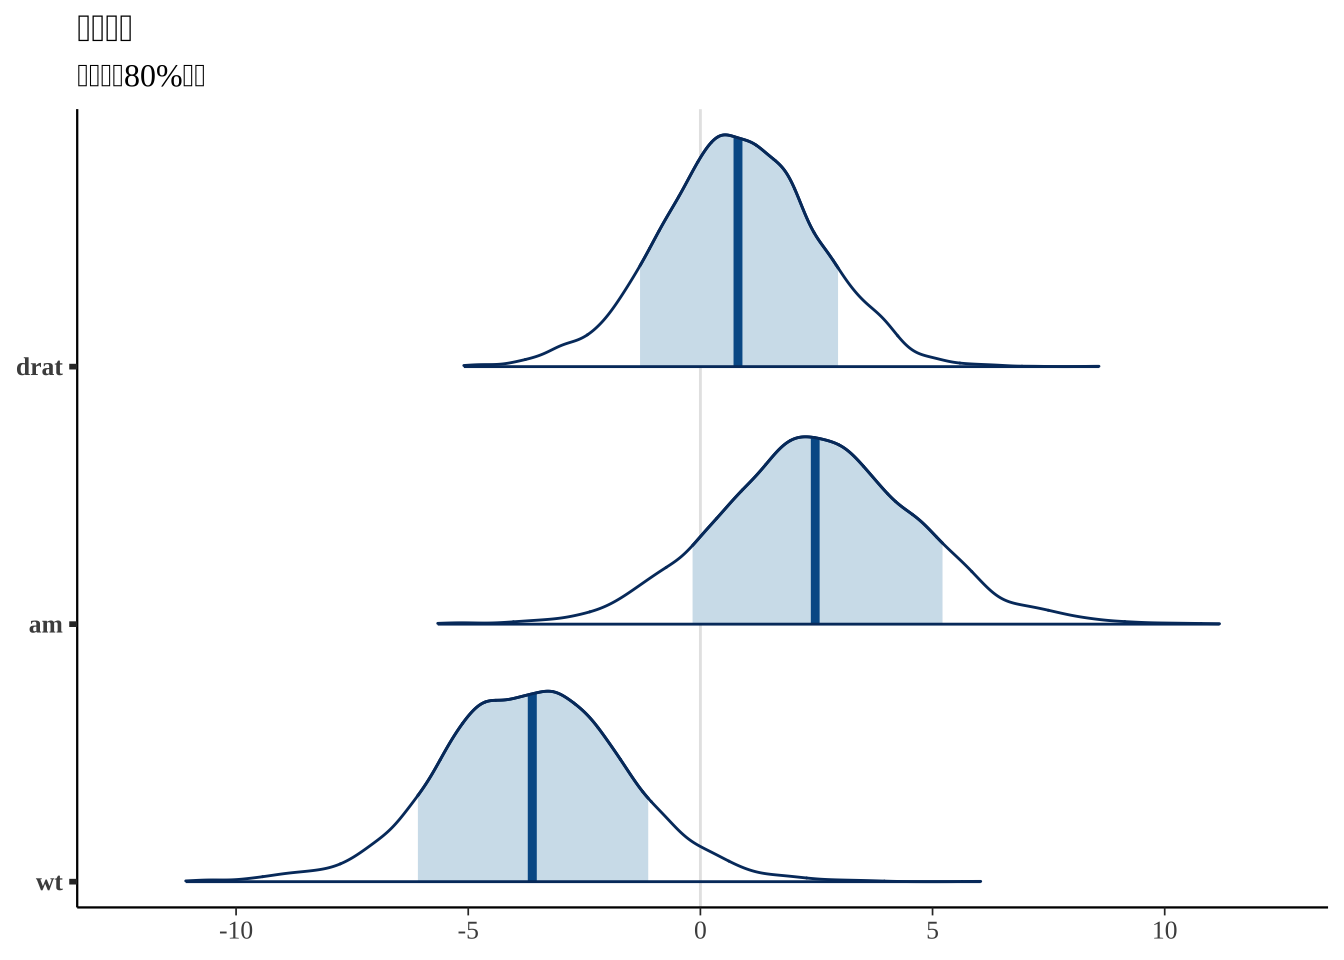
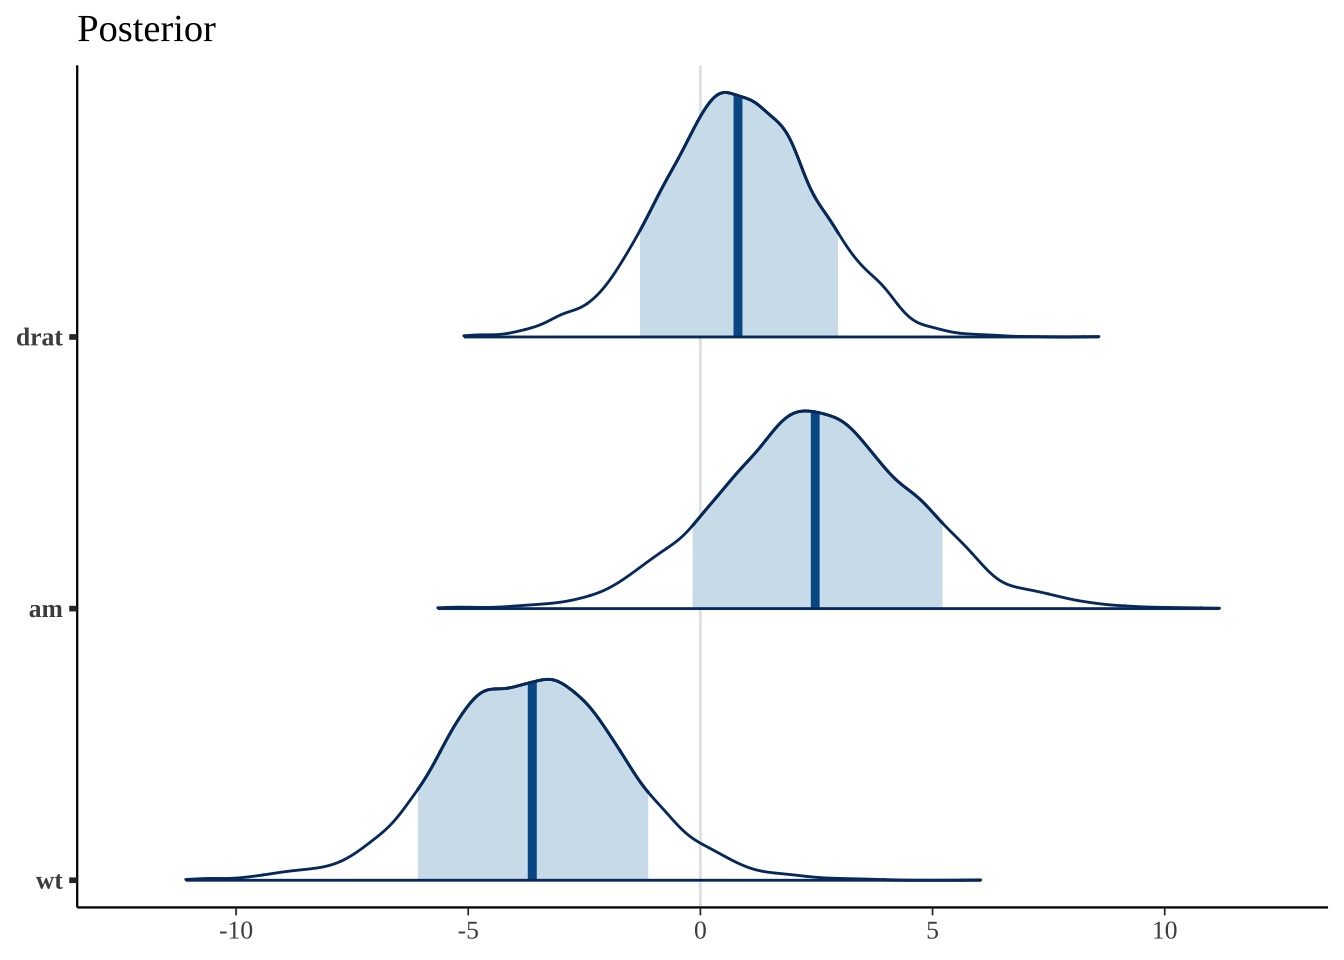
update

diff --git a/some-tips-j.html b/some-tips-j.html
@@ -546,7 +546,7 @@ B(a,b) = \int_{0}^{1} x^{a-1} {(1-x)}^{b-1} dx,\quad a,b&gt;0
 <p>主要使用<a href="https://github.com/stan-dev/bayesplot">bayesplot</a>包进行绘制，对应的速查表网址为：<a href="https://raw.githubusercontent.com/rstudio/cheatsheets/main/bayesplot.pdf" class="uri">https://raw.githubusercontent.com/rstudio/cheatsheets/main/bayesplot.pdf</a></p>
 <div class="sourceCode" id="cb15"><pre class="sourceCode r"><code class="sourceCode r"><span id="cb15-1"><a href="some-tips-j.html#cb15-1" aria-hidden="true" tabindex="-1"></a><span class="co"># 加载需要使用的包</span></span>
 <span id="cb15-2"><a href="some-tips-j.html#cb15-2" aria-hidden="true" tabindex="-1"></a><span class="fu">library</span>(showtext)</span>
-<span id="cb15-3"><a href="some-tips-j.html#cb15-3" aria-hidden="true" tabindex="-1"></a><span class="fu">showtext.auto</span>() <span class="co">#解决中文字体乱码问题</span></span>
+<span id="cb15-3"><a href="some-tips-j.html#cb15-3" aria-hidden="true" tabindex="-1"></a><span class="fu">showtext_auto</span>() <span class="co">#解决中文字体乱码问题</span></span>
 <span id="cb15-4"><a href="some-tips-j.html#cb15-4" aria-hidden="true" tabindex="-1"></a><span class="fu">library</span>(bayesplot) </span>
 <span id="cb15-5"><a href="some-tips-j.html#cb15-5" aria-hidden="true" tabindex="-1"></a><span class="fu">library</span>(rstanarm) </span>
 <span id="cb15-6"><a href="some-tips-j.html#cb15-6" aria-hidden="true" tabindex="-1"></a><span class="fu">options</span>(<span class="at">mc.cores =</span> parallel<span class="sc">::</span><span class="fu">detectCores</span>()) </span>
@@ -559,7 +559,8 @@ B(a,b) = \int_{0}^{1} x^{a-1} {(1-x)}^{b-1} dx,\quad a,b&gt;0
 <span id="cb16-2"><a href="some-tips-j.html#cb16-2" aria-hidden="true" tabindex="-1"></a>posterior <span class="ot">&lt;-</span> <span class="fu">as.matrix</span>(model)</span>
 <span id="cb16-3"><a href="some-tips-j.html#cb16-3" aria-hidden="true" tabindex="-1"></a><span class="co"># head(posterior)</span></span></code></pre></div>
 <p>展示你感兴趣参数的后验分布。</p>
-<div class="sourceCode" id="cb17"><pre class="sourceCode r"><code class="sourceCode r"><span id="cb17-1"><a href="some-tips-j.html#cb17-1" aria-hidden="true" tabindex="-1"></a><span class="fu">mcmc_areas</span>(posterior, <span class="at">pars =</span> <span class="fu">c</span>(<span class="st">&quot;drat&quot;</span>, <span class="st">&quot;am&quot;</span>, <span class="st">&quot;wt&quot;</span>),<span class="at">prob =</span> <span class="fl">0.8</span>) <span class="sc">+</span> <span class="fu">ggtitle</span>(<span class="st">&quot;后验分布&quot;</span>, <span class="st">&quot;中位数和80%区间&quot;</span>)</span></code></pre></div>
+<div class="sourceCode" id="cb17"><pre class="sourceCode r"><code class="sourceCode r"><span id="cb17-1"><a href="some-tips-j.html#cb17-1" aria-hidden="true" tabindex="-1"></a><span class="fu">showtext_auto</span>() </span>
+<span id="cb17-2"><a href="some-tips-j.html#cb17-2" aria-hidden="true" tabindex="-1"></a><span class="fu">mcmc_areas</span>(posterior, <span class="at">pars =</span> <span class="fu">c</span>(<span class="st">&quot;drat&quot;</span>, <span class="st">&quot;am&quot;</span>, <span class="st">&quot;wt&quot;</span>),<span class="at">prob =</span> <span class="fl">0.8</span>) <span class="sc">+</span> <span class="fu">ggtitle</span>(<span class="st">&quot;Posterior&quot;</span>)</span></code></pre></div>
 <p><img src="5001-some-examples_files/figure-html/unnamed-chunk-16-1.png" width="672" style="display: block; margin: auto;" /></p>
 <p>使用轨迹追踪图诊断收敛性</p>
 <div class="sourceCode" id="cb18"><pre class="sourceCode r"><code class="sourceCode r"><span id="cb18-1"><a href="some-tips-j.html#cb18-1" aria-hidden="true" tabindex="-1"></a><span class="fu">mcmc_trace</span>(posterior, <span class="at">pars=</span><span class="fu">c</span>(<span class="st">&quot;sigma&quot;</span>, <span class="st">&quot;wt&quot;</span>))</span></code></pre></div>
@@ -581,7 +582,7 @@ B(a,b) = \int_{0}^{1} x^{a-1} {(1-x)}^{b-1} dx,\quad a,b&gt;0
 <div class="sourceCode" id="cb21"><pre class="sourceCode r"><code class="sourceCode r"><span id="cb21-1"><a href="some-tips-j.html#cb21-1" aria-hidden="true" tabindex="-1"></a>ppd <span class="ot">&lt;-</span> <span class="fu">posterior_predict</span>(model, <span class="at">draws=</span><span class="dv">500</span>) </span>
 <span id="cb21-2"><a href="some-tips-j.html#cb21-2" aria-hidden="true" tabindex="-1"></a>ppd <span class="sc">%&gt;%</span></span>
 <span id="cb21-3"><a href="some-tips-j.html#cb21-3" aria-hidden="true" tabindex="-1"></a>  <span class="fu">ppc_intervals</span>(<span class="at">y =</span> mtcars<span class="sc">$</span>mpg, <span class="at">yrep =</span> ., <span class="at">x =</span> mtcars<span class="sc">$</span>wt, <span class="at">prob =</span> <span class="fl">0.5</span>) <span class="sc">+</span> </span>
-<span id="cb21-4"><a href="some-tips-j.html#cb21-4" aria-hidden="true" tabindex="-1"></a>  <span class="fu">labs</span>(<span class="at">x =</span> <span class="st">&quot;Weight (1000 lbs)&quot;</span>, <span class="at">y =</span> <span class="st">&quot;MPG&quot;</span>, <span class="at">title =</span> <span class="st">&quot;MPG的50%后验预测区间&quot;</span>)</span></code></pre></div>
+<span id="cb21-4"><a href="some-tips-j.html#cb21-4" aria-hidden="true" tabindex="-1"></a>  <span class="fu">labs</span>(<span class="at">x =</span> <span class="st">&quot;Weight (1000 lbs)&quot;</span>, <span class="at">y =</span> <span class="st">&quot;MPG&quot;</span>, <span class="at">title =</span> <span class="st">&quot;&quot;</span>)</span></code></pre></div>
 <p><img src="5001-some-examples_files/figure-html/unnamed-chunk-20-1.png" width="672" style="display: block; margin: auto;" /></p>
 <div class="sourceCode" id="cb22"><pre class="sourceCode r"><code class="sourceCode r"><span id="cb22-1"><a href="some-tips-j.html#cb22-1" aria-hidden="true" tabindex="-1"></a>ppd <span class="sc">%&gt;%</span> <span class="fu">ppc_stat_grouped</span>(<span class="at">y =</span> mtcars<span class="sc">$</span>mpg,</span>
 <span id="cb22-2"><a href="some-tips-j.html#cb22-2" aria-hidden="true" tabindex="-1"></a>                         <span class="at">group =</span> mtcars<span class="sc">$</span>am,</span>

diff --git a/5001-some-examples.md b/5001-some-examples.md
@@ -283,7 +283,7 @@ ggplot(data) +
 ```r
 # 加载需要使用的包
 library(showtext)
-showtext.auto() #解决中文字体乱码问题
+showtext_auto() #解决中文字体乱码问题
 library(bayesplot) 
 library(rstanarm) 
 options(mc.cores = parallel::detectCores()) 
@@ -306,7 +306,8 @@ posterior <- as.matrix(model)
 
 
 ```r
-mcmc_areas(posterior, pars = c("drat", "am", "wt"),prob = 0.8) + ggtitle("后验分布", "中位数和80%区间")
+showtext_auto() 
+mcmc_areas(posterior, pars = c("drat", "am", "wt"),prob = 0.8) + ggtitle("Posterior")
 ```
 
 <img src="5001-some-examples_files/figure-html/unnamed-chunk-16-1.png" width="672" style="display: block; margin: auto;" />
@@ -348,7 +349,7 @@ posterior_chains %>% mcmc_pairs(pars = c("(Intercept)", "wt", "sigma"))
 ppd <- posterior_predict(model, draws=500) 
 ppd %>%
   ppc_intervals(y = mtcars$mpg, yrep = ., x = mtcars$wt, prob = 0.5) + 
-  labs(x = "Weight (1000 lbs)", y = "MPG", title = "MPG的50%后验预测区间")
+  labs(x = "Weight (1000 lbs)", y = "MPG", title = "")
 ```
 
 <img src="5001-some-examples_files/figure-html/unnamed-chunk-20-1.png" width="672" style="display: block; margin: auto;" />
